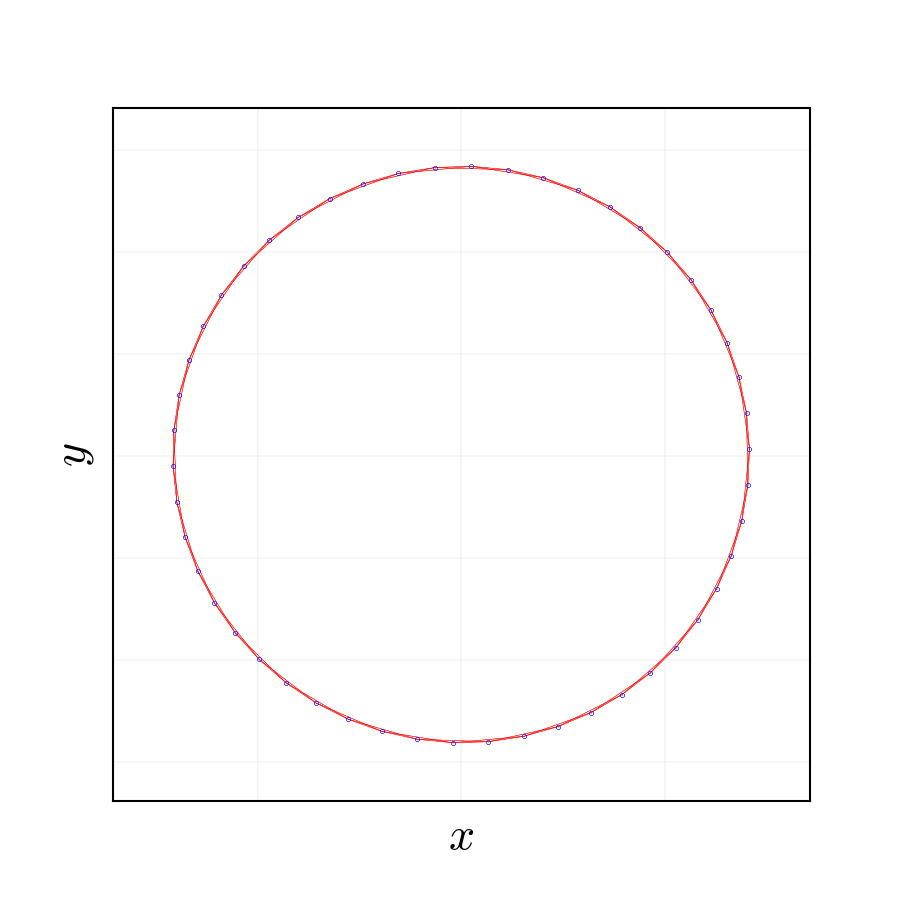
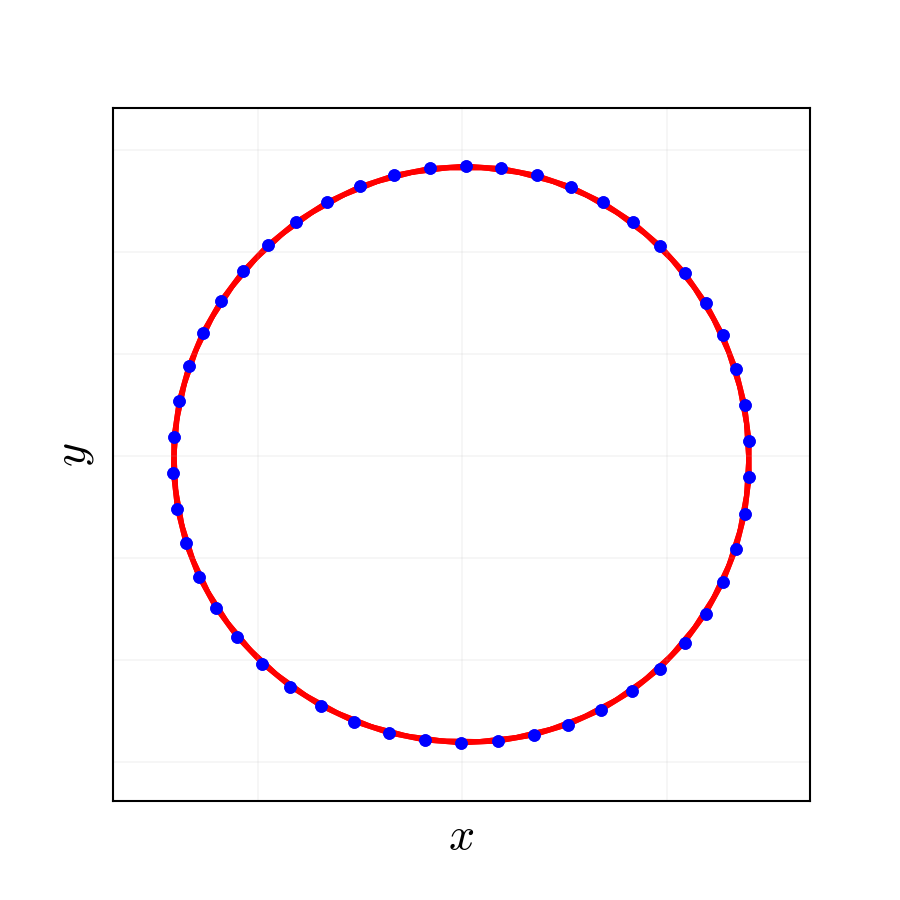
add nice regular plots

diff --git a/src/spectral_drawing.py b/src/spectral_drawing.py
@@ -1,4 +1,3 @@
-import mpmath as mp
 import csv
 from scipy.sparse import identity
 from scipy.sparse.linalg import splu
@@ -13,9 +12,7 @@ from graph_class import Graph
 import hde as hde
 import time as time
 from pm import *
-<< << << < HEAD
-== == == =
->>>>>> > c108cbacb9b15a5a1d78b13580ecc6b978cadcb9
+
 
 # Set the desired precision
 # mp.dps = 100
@@ -25,14 +22,8 @@ def rayleigh_quotient(A, x):
     return np.dot(x, A@x) / np.dot(x, x)
 
 
-<< << << < HEAD
-
-
 def hde_spectral_drawing(G: Graph, p: int, m: int, tol=1e-8, max_iters=1000, D_orth=True, prints=False, test=False, test_gershgorin=False, use_gershgorin=False):
     X = hde.hde(G, m, D_orth=D_orth)
-
-
-== == == =
 
 
 def sparse_rayleigh_quotient(A_sparse, x):
@@ -42,10 +33,7 @@ def sparse_rayleigh_quotient(A_sparse, x):
 
 def hde_spectral_drawing(G: Graph, p: int, m: int, tol=1e-8, max_iters=1000, D_orth=True, prints=False, test=False, test_gershgorin=False, use_gershgorin=False):
     X = hde.hde(G, m, D_orth=D_orth)
-
-
->>>>>> > c108cbacb9b15a5a1d78b13580ecc6b978cadcb9
-   if prints:
+    if prints:
         print("prints for matrix Xss! with X shape: ", np.shape(X))
         print(X)
         print("XT D X = ")
@@ -328,10 +316,10 @@ ticks_index = 4
 n_plot_params = 5
 
 
-def power_method_sparse(B_sparse, p, max_iter=1000, tol=1e-6, D = None):
+def power_method_sparse(B_sparse, p, max_iter=1000, tol=1e-6, D=None):
     n = B_sparse.shape[0]
     all_ones = np.ones(n) / np.sqrt(n)
-    U = np.zeros(shape= (n, n))
+    U = np.zeros(shape=(n, n))
     if D.all() == None:
         D = csr_matrix(np.eye(n))
     U[:, 0] = all_ones.copy()
@@ -350,11 +338,12 @@ def power_method_sparse(B_sparse, p, max_iter=1000, tol=1e-6, D = None):
                     ul = U[:, l]
                     y -= np.dot(y, ul) / np.dot(ul, ul) * ul
             x = y / norm(y)
-            if stopping_criteria_pm(x, xprev, B_sparse, tol, i, mode= 0) < tol:
+            if stopping_criteria_pm(x, xprev, B_sparse, tol, i, mode=0) < tol:
                 break
         if i == max_iter - 1:
             print("Warning: convergence not reached!")
-            print("residual = ", stopping_criteria_pm(x, xprev, B_sparse, tol, i, mode= 0))
+            print("residual = ", stopping_criteria_pm(
+                x, xprev, B_sparse, tol, i, mode=0))
 
         xvecT = x[np.newaxis, :]
         xvec = x[:, np.newaxis]
@@ -363,24 +352,23 @@ def power_method_sparse(B_sparse, p, max_iter=1000, tol=1e-6, D = None):
         U[:, k] = x
     return U[:, 1:]
 
-
     print(n)
     return 0
 
     return eigenvectors
 
 
-def rayleigh_iteration(A, p, tol = 1e-8, max_iter = 1000, D = None):
+def rayleigh_iteration(A, p, tol=1e-8, max_iter=1000, D=None):
     n = A.shape[0]
-    id_csr = identity(n, format= 'csr')
-    U = np.zeros(shape = (n, n))
+    id_csr = identity(n, format='csr')
+    U = np.zeros(shape=(n, n))
     for k in range(p):
         x = np.random.rand(n)
         x /= norm(x)
         x_prev = x
         x = np.zeros(n)
         iters = 0
-        residual = stopping_criteria_pm(x, x_prev, A, tol, iters, mode= 0)
+        residual = stopping_criteria_pm(x, x_prev, A, tol, iters, mode=0)
         while residual > tol and iters < max_iter:
             # Orthogonalize w.r.t. previous eigenvectors
             for l in range(k):
@@ -394,20 +382,18 @@ def rayleigh_iteration(A, p, tol = 1e-8, max_iter = 1000, D = None):
             y = lu.solve(x_prev)
             x = y / norm(y)
             iters += 1
-            residual = stopping_criteria_pm(x, x_prev, A, tol, iters, mode= 0)
+            residual = stopping_criteria_pm(x, x_prev, A, tol, iters, mode=0)
         U[:, k] = x
         # Deflate original matrix A
     return U
 
 
-
-
-
-def draw(G: Graph, p = 2, tol = 1e-8, max_iter = 1000, node_size = 0.01, edge_width = 0.1, figsize = (3, 3), dpi = 200, mode = 0, plot_params = [False for _ in range(n_plot_params)], numbering = -1, reference = False):
+def draw(G: Graph, p=2, tol=1e-8, max_iter=1000, node_size=0.01, edge_width=0.1, figsize=(3, 3), dpi=200, mode=0, plot_params=[False for _ in range(n_plot_params)], numbering=-1, reference=False):
     # #Degree normalized eigenvectors
     if numbering != -1:
         G.set_num_name(G.name + "_" + str(numbering))
-    # U, times, B_sparse = degree_normalized_eigenvectors(G, p, tol = tol, max_iter = max_iter, matmul = True, mode = mode)
+    U, times, B_sparse = degree_normalized_eigenvectors(
+        G, p, tol=tol, max_iter=max_iter, matmul=True, mode=mode)
 
     # # Save file with eigenvalue information
     # filename = "files/" + G.num_name + "eigenvectors.csv"
@@ -430,7 +416,7 @@ def draw(G: Graph, p = 2, tol = 1e-8, max_iter = 1000, node_size = 0.01, edge_wi
     # Eigenvalues and eigenvectors with reference method
     filename = "files/" + G.num_name + "eigenvectors.csv"
     if reference:
-        eigenvalues, eigenvectors = eigs(B_sparse, k= p + 1, which='LM')
+        eigenvalues, eigenvectors = eigs(B_sparse, k=p + 1, which='LM')
         with open(filename, 'a', newline='') as file:
             writer = csv.writer(file)
             writer.writerow(eigenvalues[1:])
@@ -438,18 +424,21 @@ def draw(G: Graph, p = 2, tol = 1e-8, max_iter = 1000, node_size = 0.01, edge_wi
         x_coord = eigenvectors[:, 1]
         y_coord = eigenvectors[:, 2]
         plot_name = G.num_name + "_ref"
-        graph_plot(G, x_coord, y_coord, node_size= node_size, figsize = figsize, dpi = dpi, add_labels= False, edge_width = edge_width, plot_params = plot_params, plot_name = plot_name)
+        graph_plot(G, x_coord, y_coord, node_size=node_size, figsize=figsize, dpi=dpi,
+                   add_labels=False, edge_width=edge_width, plot_params=plot_params, plot_name=plot_name)
 
-    # x_coord = U[:, 0]
-    # y_coord = U[:, 1]
-    # graph_plot(G, x_coord, y_coord, node_size = node_size, figsize = figsize, dpi = dpi, add_labels= False, edge_width = edge_width, plot_params = plot_params)
-    # return 1
+    x_coord = U[:, 0]
+    y_coord = U[:, 1]
+    graph_plot(G, x_coord, y_coord, node_size=node_size, figsize=figsize,
+               dpi=dpi, add_labels=False, edge_width=edge_width, plot_params=plot_params)
+    return 1
 
 
 def draw_from_dict(main_args):
     draw(**{key: value for arg in main_args for key, value in main_args.items()})
 
-def draw_n(G: Graph, n: int, p = 2, tol = 1e-8, max_iter = 1000, node_size = 0.01, edge_width = 0.1, figsize = (3, 3), dpi = 200, mode = 0, plot_params = [False for _ in range(n_plot_params)], reference = False):
+
+def draw_n(G: Graph, n: int, p=2, tol=1e-8, max_iter=1000, node_size=0.01, edge_width=0.1, figsize=(3, 3), dpi=200, mode=0, plot_params=[False for _ in range(n_plot_params)], reference=False):
     saved_args = locals()
     main_args = {}
     for key in saved_args.keys():

diff --git a/src/plotting_regular.py b/src/plotting_regular.py
@@ -20,31 +20,37 @@ plot_params[grid_index] = True
 
 G = regular_graph(6, 3)
 
-draw_n(G, 4, plot_params=plot_params)
+draw_n(G, 4, edge_width=1.5, node_size=15,  plot_params=plot_params)
 
 k = 5
 num_regulars = 1
+edge_width = 1
+node_size = 4
 G = regular_graph(10, k)
-draw_n(G, num_regulars, plot_params=plot_params)
+draw_n(G, num_regulars, edge_width=edge_width,
+       node_size=node_size, plot_params=plot_params)
 
 G = regular_graph(20, k)
-draw_n(G, num_regulars, plot_params=plot_params)
+draw_n(G, num_regulars, edge_width=edge_width,
+       node_size=node_size, plot_params=plot_params)
 
 G = regular_graph(100, k)
-draw_n(G, num_regulars, plot_params=plot_params)
+draw_n(G, num_regulars, edge_width=edge_width,
+       node_size=node_size, plot_params=plot_params)
 
 G = regular_graph(200, k)
-draw_n(G, num_regulars, plot_params=plot_params)
+draw_n(G, num_regulars, edge_width=edge_width,
+       node_size=node_size,  plot_params=plot_params)
 
 N_nodes = 100
-G = regular_graph(N_nodes, 5)
-draw_n(G, num_regulars, plot_params=plot_params)
+G = regular_graph(N_nodes, 8)
+draw_n(G, num_regulars, node_size=node_size, plot_params=plot_params)
 
-G = regular_graph(N_nodes, 10)
-draw_n(G, num_regulars, plot_params=plot_params)
+G = regular_graph(N_nodes, 16)
+draw_n(G, num_regulars, node_size=node_size, plot_params=plot_params)
 
-G = regular_graph(N_nodes, 15)
-draw_n(G, num_regulars, plot_params=plot_params)
+G = regular_graph(N_nodes, 32)
+draw_n(G, num_regulars, node_size=node_size, plot_params=plot_params)
 
-G = regular_graph(N_nodes, 20)
-draw_n(G, num_regulars, plot_params=plot_params)
+G = regular_graph(N_nodes, 64)
+draw_n(G, num_regulars, node_size=node_size, plot_params=plot_params)
